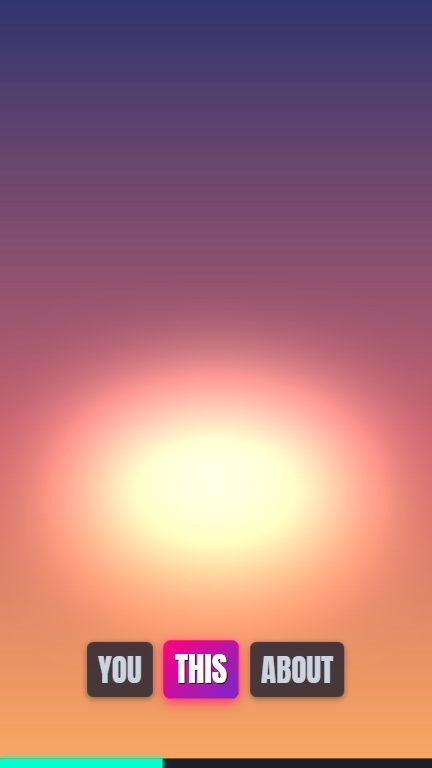
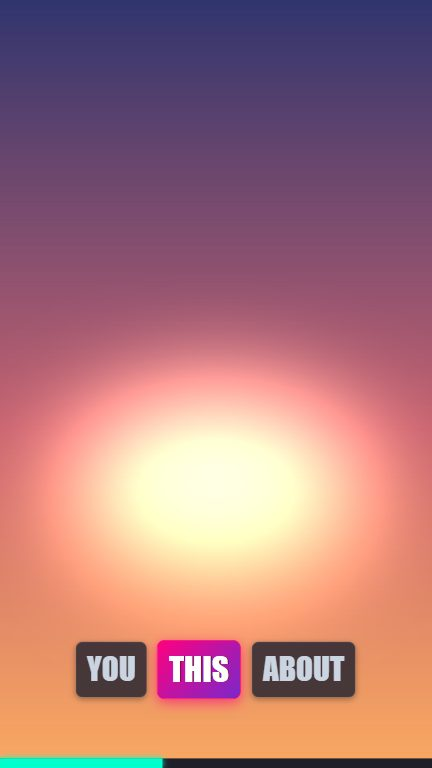
fix(captions): back out loading the bundled fonts at start-up (it stalled a browser tab in the CI E2E render); Caveat and JetBrains Mono still load, only for their own style, through src/loadFont.ts

Changed region(s): [[0.1505, 0.8125, 0.8426, 0.9375]]

diff --git a/remotion-video/src/fonts.ts b/remotion-video/src/fonts.ts
@@ -1,3 +1,6 @@
+// NOTE (2026-11-13): package.json lists only *.css under sideEffects, so the bundler drops `import "./fonts"` and NONE of these loads run:
+// captions use the machine's own fonts. Listing this file made every font load for the first time, and on GitHub's runner a browser
+// tab then stalled in the first font (E2E render failed after 58 s, soft timeout or not). Fix it only together with a CI run.
 // Bundled OFL caption fonts so captions look the same on every machine:
 //  - Anton (similar to Impact) for Latin text
 //  - Noto Sans (bold, Latin + Greek + Cyrillic subset) so Russian/Ukrainian/Bulgarian/Greek captions are not boxes (Anton has no Cyrillic)
@@ -6,30 +9,9 @@
 //    and passes it as the `extraFont` prop, loaded in ShortFlow.tsx as family "NotoCJK".
 //  - Noto Sans Devanagari, so Hindi/Marathi/Sanskrit captions do not render as empty boxes on machines (CI, Docker)
 //    that have no Devanagari system font. The browser falls back to it per character, right after Anton.
-import { continueRender, delayRender, staticFile } from "remotion";
 
-const SOFT_TIMEOUT_MS = 8000;
+import { loadFont } from "./loadFont";
 
-// Never lets a font hold a render: a font that fails or is slower than SOFT_TIMEOUT_MS is given up on and the browser falls back to
-// Impact / Arial Black / system fonts (a GitHub runner once waited 178 s for one font and failed the render).
-export const loadFont = (family: string, file: string, weight?: string) => {
-  const handle = delayRender(`Loading ${family} caption font`, { timeoutInMilliseconds: 60000 });
-  let done = false;
-  const finish = () => {
-    if (done) return;
-    done = true;
-    clearTimeout(timer);
-    continueRender(handle);
-  };
-  const timer = setTimeout(finish, SOFT_TIMEOUT_MS);
-  new FontFace(family, `url(${staticFile(file)})`, weight ? { weight } : undefined)
-    .load()
-    .then((font) => {
-      document.fonts.add(font);
-      finish();
-    })
-    .catch(finish);
-};
 const load = loadFont;
 
 load("Anton", "fonts/Anton-Regular.ttf");

diff --git a/remotion-video/src/loadFont.ts b/remotion-video/src/loadFont.ts
@@ -1,0 +1,24 @@
+// One font loader with a soft timeout, shared by fonts.ts and the per-style fonts in ShortFlow.tsx.
+import { continueRender, delayRender, staticFile } from "remotion";
+
+const SOFT_TIMEOUT_MS = 8000;
+
+// A font that fails or is slower than SOFT_TIMEOUT_MS is given up on and the browser falls back to system fonts.
+export const loadFont = (family: string, file: string, weight?: string) => {
+  const handle = delayRender(`Loading ${family} caption font`, { timeoutInMilliseconds: 60000 });
+  let done = false;
+  const finish = () => {
+    if (done) return;
+    done = true;
+    clearTimeout(timer);
+    continueRender(handle);
+  };
+  const timer = setTimeout(finish, SOFT_TIMEOUT_MS);
+  new FontFace(family, `url(${staticFile(file)})`, weight ? { weight } : undefined)
+    .load()
+    .then((font) => {
+      document.fonts.add(font);
+      finish();
+    })
+    .catch(finish);
+};

diff --git a/remotion-video/src/ShortFlow.tsx b/remotion-video/src/ShortFlow.tsx
@@ -3,7 +3,7 @@ import { zoomScaleAt } from "./autoZoom";
 import { TemplateLayer, templateTextSchema, VISUAL_TEMPLATES } from "./visualTemplates";
 import { TransitionLayer, TRANSITIONS } from "./transitions";
 import { SegmentTransitionSeries, SEGMENT_TRANSITIONS, canTransition } from "./segmentTransitions";
-import { loadFont } from "./fonts";
+import { loadFont } from "./loadFont";
 import {
   Audio,
   OffthreadVideo,

diff --git a/tests/test_caption_styles.py b/tests/test_caption_styles.py
@@ -140,20 +140,20 @@ def test_every_list_of_caption_styles_agrees_and_each_style_has_a_preview():
     assert json.dumps(names)
 
 
-def test_bundled_fonts_are_really_loaded_by_the_bundler():
-    """remotion-video/package.json once said sideEffects: ["*.css"], so the bundler dropped `import "./fonts"` and no bundled font ever loaded."""
+def test_style_fonts_are_bundled_and_loaded_only_for_their_style():
+    """Caveat (HANDWRITTEN) and JetBrains Mono (TYPEWRITER) load only when their style is used, through src/loadFont.ts. fonts.ts (Anton, Noto)
+    is still dropped by the bundler (package.json sideEffects lists only *.css); enabling it stalled a browser tab in the CI render."""
     import json
     import os
     root = os.path.join(os.path.dirname(__file__), "..", "remotion-video")
     pkg = json.load(open(os.path.join(root, "package.json"), encoding="utf-8"))
-    assert "./src/fonts.ts" in pkg.get("sideEffects", []), "fonts.ts must be listed in sideEffects or it is tree-shaken away"
-    fonts = open(os.path.join(root, "src", "fonts.ts"), encoding="utf-8").read()
+    assert "./src/fonts.ts" not in pkg.get("sideEffects", []), "do not enable fonts.ts without a passing CI E2E render (see the note in fonts.ts)"
     shortflow = open(os.path.join(root, "src", "ShortFlow.tsx"), encoding="utf-8").read()
-    assert 'load("Anton", "fonts/Anton-Regular.ttf"' in fonts and "SOFT_TIMEOUT_MS" in fonts          # a font can never hold a render for long
+    loader = open(os.path.join(root, "src", "loadFont.ts"), encoding="utf-8").read()
+    assert 'from "./loadFont"' in shortflow and 'from "./fonts"' not in shortflow         # importing fonts.ts would run its loads
+    assert "SOFT_TIMEOUT_MS" in loader
     for style, family, file in (("HANDWRITTEN", "Caveat", "Caveat.ttf"), ("TYPEWRITER", "JetBrainsMono", "JetBrainsMono.ttf")):
-        assert f'{style}: ["{family}", "fonts/{file}"' in shortflow                                  # loaded only for the style that needs it
-        assert f'"{family}"' not in fonts
-    for file in ("Anton-Regular.ttf", "Caveat.ttf", "JetBrainsMono.ttf"):
+        assert f'{style}: ["{family}", "fonts/{file}"' in shortflow
         assert os.path.getsize(os.path.join(root, "public", "fonts", file)) > 50_000
     for lic in ("LICENSE-Caveat.txt", "LICENSE-JetBrainsMono.txt"):
         assert "SIL Open Font License" in open(os.path.join(root, "public", "fonts", lic), encoding="utf-8").read()

diff --git a/CHANGELOG.md b/CHANGELOG.md
@@ -5,7 +5,7 @@ Release notes for the `shortsflow` package and the Windows installer. Newest fir
 ## Unreleased
 
 - Seven new caption styles (`--caption_style`): MARKER (highlighter sweep), SOFT (clean words fading in), WORDCUT (words cut in), NEGATIVE (keyword in a muted tone), HANDWRITTEN (script with an underline), SIMPLE (tall plain capitals) and TYPEWRITER (typed letter by letter). Each has a preview picture in the browser app's picker. Fonts Caveat and JetBrains Mono (SIL OFL) are bundled.
-- Fixed: the bundled caption fonts (Anton, Noto Sans for Cyrillic, Devanagari and Arabic) were never loaded, because `remotion-video/package.json` told the bundler that only CSS files have side effects and it dropped `import "./fonts"`. Captions used whatever fonts the machine had. They are loaded now, so captions look the same everywhere.
+- Known issue, not fixed: the bundled caption fonts (Anton, Noto Sans for Cyrillic, Devanagari and Arabic) are never loaded, because `remotion-video/package.json` tells the bundler that only CSS files have side effects and it drops `import "./fonts"`. Captions use the machine's own fonts. Turning the import on stalled a browser tab in the E2E render on GitHub's runner, so it is left off until it can be tested there. Caveat and JetBrains Mono (the two new styles) are loaded only when their style is used.
 - Fixed: the letterbox check could report an impossible crop window (for example negative sizes on a video that starts black), which made FFmpeg fail on every clip that used the plain face crop: those clips were dropped silently. Such a window is now ignored, a clip cut that fails on the GPU encoder is retried once on the CPU, and any cut that still fails is reported.
 
 ## 0.7.8 (2026-11-13)
